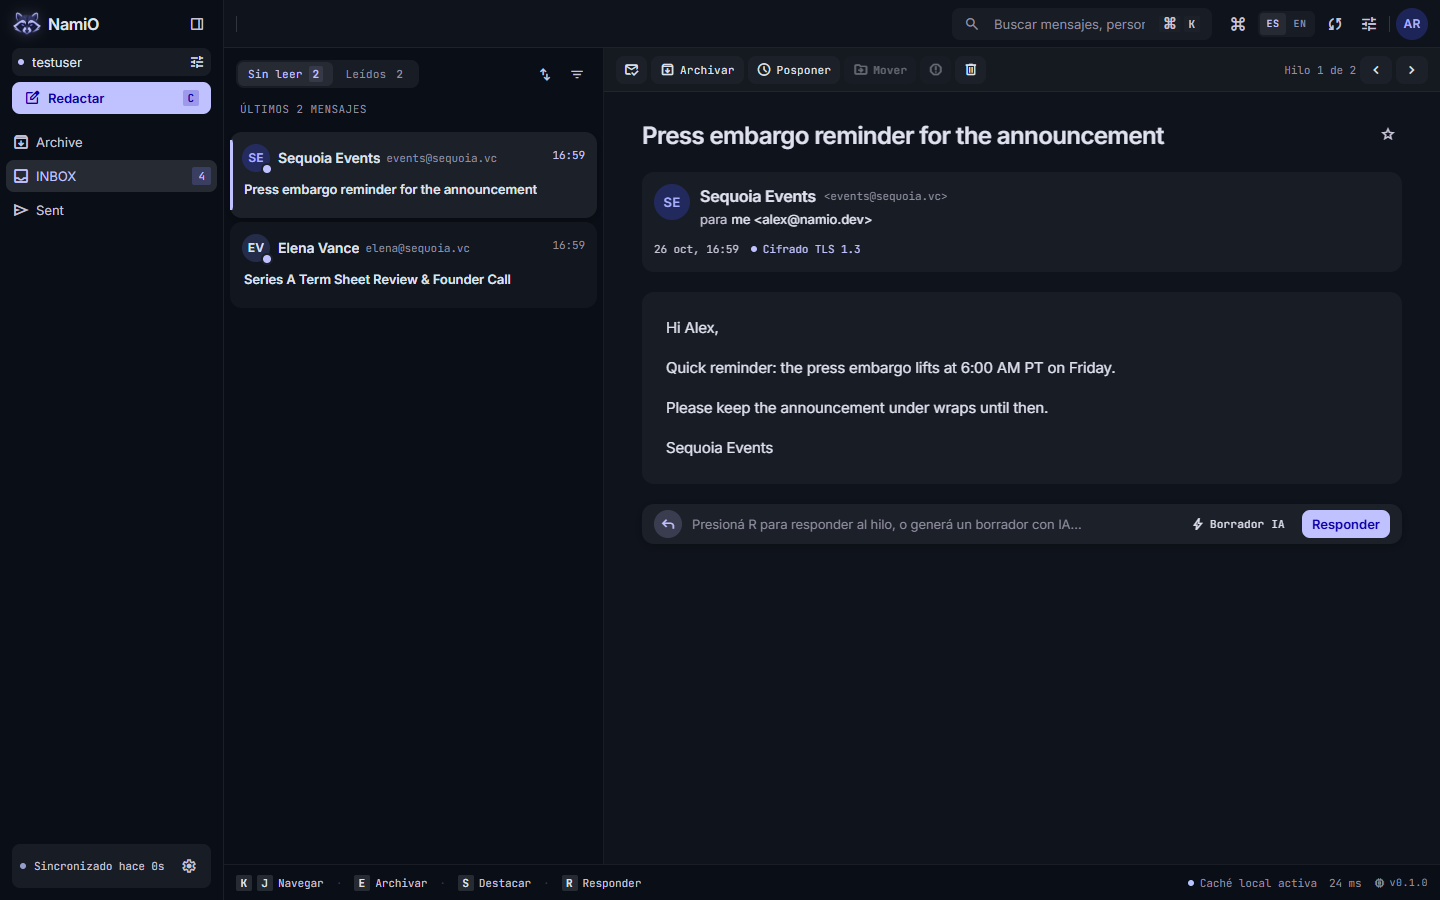
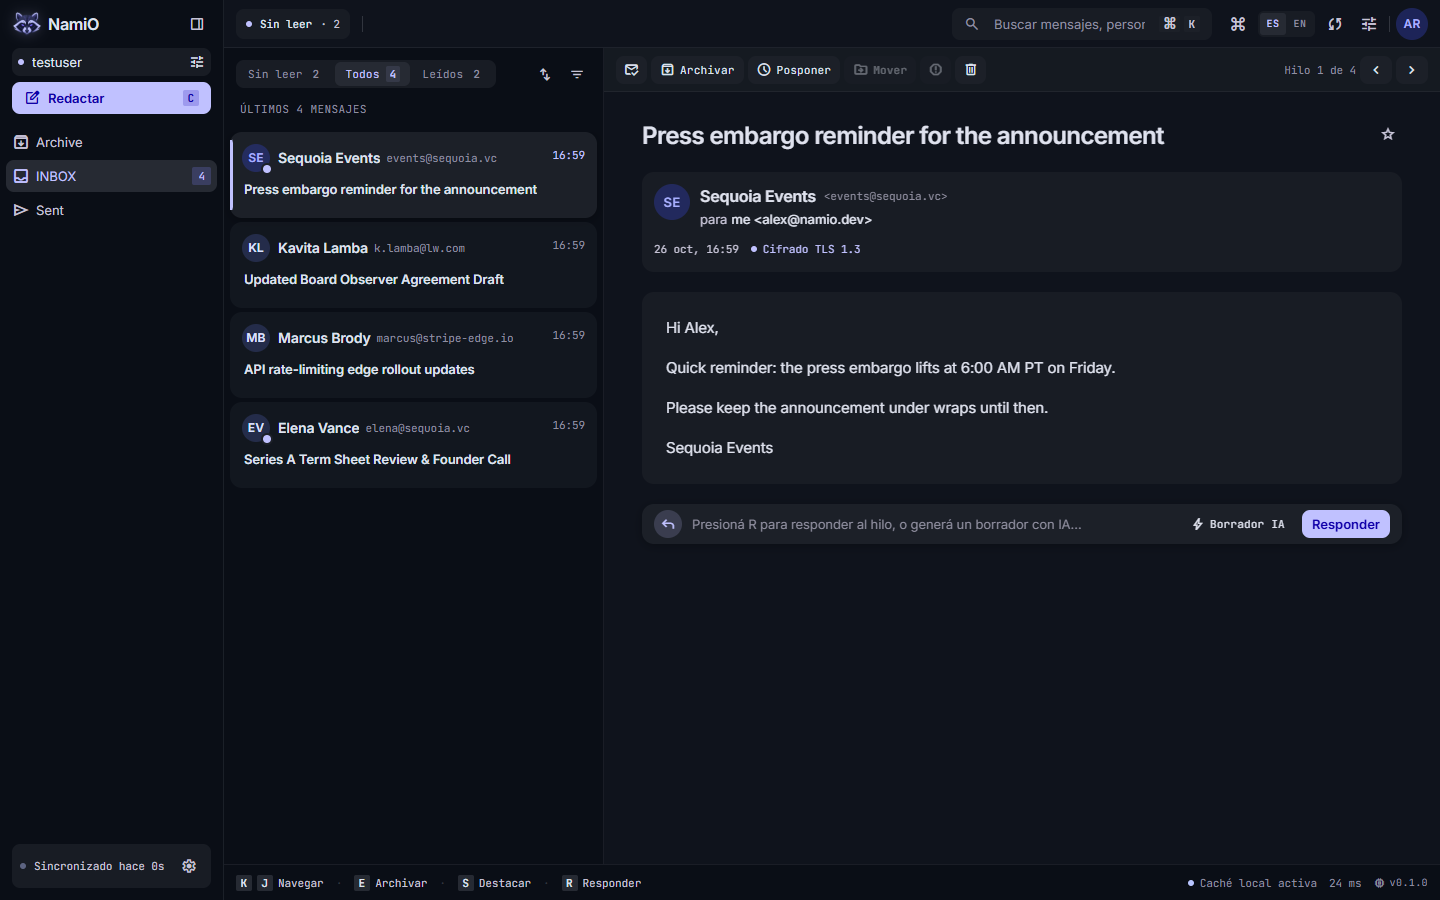
Pestana Todos en modo real, cola estable y contador de sin leer visible

diff --git a/src/renderer/src/App.tsx b/src/renderer/src/App.tsx
@@ -122,6 +122,7 @@ export function App(): React.JSX.Element {
       // también (cascada de mensajes "leídos" sin abrir).
       if (filter === 'focused') return threads.filter((thread) => thread.unread || thread.id === selectedId)
       if (filter === 'other') return threads.filter((thread) => !thread.unread)
+      if (filter === 'all') return threads
       return threads
     }
     return threads.filter((thread) => matchesFolder(thread, folder) && matchesFilter(thread, filter))
@@ -134,6 +135,7 @@ export function App(): React.JSX.Element {
 
   const unreadCount = threads.filter((thread) => thread.unread).length
   const otherCount = threads.filter((thread) => !thread.unread).length
+  const allCount = threads.length
   const vipCount = threads.filter((thread) => thread.vip).length
 
   const folderViews = useMemo<readonly FolderView[]>(() => {
@@ -315,6 +317,11 @@ export function App(): React.JSX.Element {
   }, [])
 
   // Sin `settingsLoaded` la bienvenida parpadearía un frame si la cuenta llega antes.
+  // Con cuenta real se abre en "Todos": la bandeja con los últimos mensajes.
+  useEffect(() => {
+    if (live) setFilter('all')
+  }, [live])
+
   const onboarding =
     settingsLoaded && account !== null && !account.configured && settings.onboarded !== true
 
@@ -726,9 +733,18 @@ export function App(): React.JSX.Element {
                 filter={filter}
                 unreadCount={unreadCount}
                 otherCount={otherCount}
+                allCount={allCount}
                 vipCount={vipCount}
                 loading={loadingFolder}
-                emptyLabel={live ? t('account.liveEmpty') : undefined}
+                emptyLabel={
+                  live
+                    ? filter === 'focused'
+                      ? t('list.emptyUnread')
+                      : filter === 'other'
+                        ? t('list.emptyRead')
+                        : t('account.liveEmpty')
+                    : undefined
+                }
                 onFilter={setFilter}
                 onSelect={select}
                 showVip={!live}

diff --git a/src/renderer/src/components/ThreadList.tsx b/src/renderer/src/components/ThreadList.tsx
@@ -10,6 +10,8 @@ interface ThreadListProps {
   filter: FilterId
   unreadCount: number
   otherCount: number
+  /** Mensajes cargados en la ventana (sin filtrar): describe la cola. */
+  allCount: number
   vipCount: number
   loading?: boolean
   emptyLabel?: string
@@ -24,6 +26,7 @@ interface ThreadListProps {
 const QUEUE_LABEL: Record<FilterId, TranslationKey> = {
   focused: 'list.highPriority',
   other: 'list.everythingElse',
+  all: 'list.all',
   vip: 'list.vipOnly',
   files: 'list.withAttachments',
   'needs-reply': 'list.needsReply'
@@ -49,6 +52,7 @@ export function ThreadList({
   filter,
   unreadCount,
   otherCount,
+  allCount,
   vipCount,
   loading = false,
   emptyLabel,
@@ -77,6 +81,17 @@ export function ThreadList({
             >
               {focusedLabel} <span className="seg__count">{unreadCount}</span>
             </button>
+            {live && (
+              <button
+                type="button"
+                role="tab"
+                aria-selected={filter === 'all'}
+                className={cx('seg__btn', filter === 'all' && 'seg__btn--active')}
+                onClick={() => onFilter('all')}
+              >
+                {t('list.all')} <span className="seg__count">{allCount}</span>
+              </button>
+            )}
             <button
               type="button"
               role="tab"
@@ -113,7 +128,7 @@ export function ThreadList({
         <div className="list__queue">
           <span>
             {live
-              ? t('list.liveQueue', { count: threads.length }).toUpperCase()
+              ? t('list.liveQueue', { count: allCount }).toUpperCase()
               : t('list.queue', { name: t(QUEUE_LABEL[filter]).toUpperCase() })}
           </span>
           {!live && <strong>{t('list.triaged')}</strong>}

diff --git a/src/renderer/src/components/Topbar.tsx b/src/renderer/src/components/Topbar.tsx
@@ -3,7 +3,7 @@ import { LOCALES, useI18n } from '../i18n'
 import { Icon } from './Icon'
 import { cx } from '../lib/cx'
 
-export type FilterId = 'focused' | 'other' | 'vip' | 'files' | 'needs-reply'
+export type FilterId = 'focused' | 'other' | 'all' | 'vip' | 'files' | 'needs-reply'
 
 interface TopbarProps {
   unreadCount: number
@@ -39,7 +39,7 @@ export function Topbar({
   return (
     <header className="topbar">
       <div className="topbar__left">
-        <div className="zero-pill">
+        <div className={cx('zero-pill', live && 'zero-pill--live')}>
           <span className="dot" />
           {live ? (
             <>

diff --git a/src/renderer/src/styles/app.css b/src/renderer/src/styles/app.css
@@ -3648,7 +3648,7 @@
   }
   /* En español los chips son más largos: el resumen del Inbox Zero es lo
      primero que se puede perder sin quitar funcionalidad. */
-  .zero-pill {
+  .zero-pill:not(.zero-pill--live) {
     display: none;
   }
   .search {
@@ -3778,7 +3778,7 @@
   .filter-row .filter-chip:not(.filter-chip--active) {
     display: none;
   }
-  .zero-pill {
+  .zero-pill:not(.zero-pill--live) {
     display: none;
   }
   .legend__item:nth-child(n + 5) {

diff --git a/src/renderer/src/i18n/es.ts b/src/renderer/src/i18n/es.ts
@@ -88,6 +88,9 @@ export const es = {
   'list.other': 'Otros',
   'list.unread': 'Sin leer',
   'list.read': 'Leídos',
+  'list.all': 'Todos',
+  'list.emptyUnread': 'No hay mensajes sin leer.',
+  'list.emptyRead': 'No hay mensajes leídos en esta carpeta.',
   'list.liveQueue': 'Últimos {count} mensajes',
   'list.vip': 'VIP',
   'list.queue': 'COLA: {name}',

diff --git a/src/renderer/src/i18n/en.ts b/src/renderer/src/i18n/en.ts
@@ -85,6 +85,9 @@ export const en: Dictionary = {
   'list.other': 'Other',
   'list.unread': 'Unread',
   'list.read': 'Read',
+  'list.all': 'All',
+  'list.emptyUnread': 'No unread messages.',
+  'list.emptyRead': 'No read messages in this folder.',
   'list.liveQueue': 'Latest {count} messages',
   'list.vip': 'VIP',
   'list.queue': 'QUEUE: {name}',
